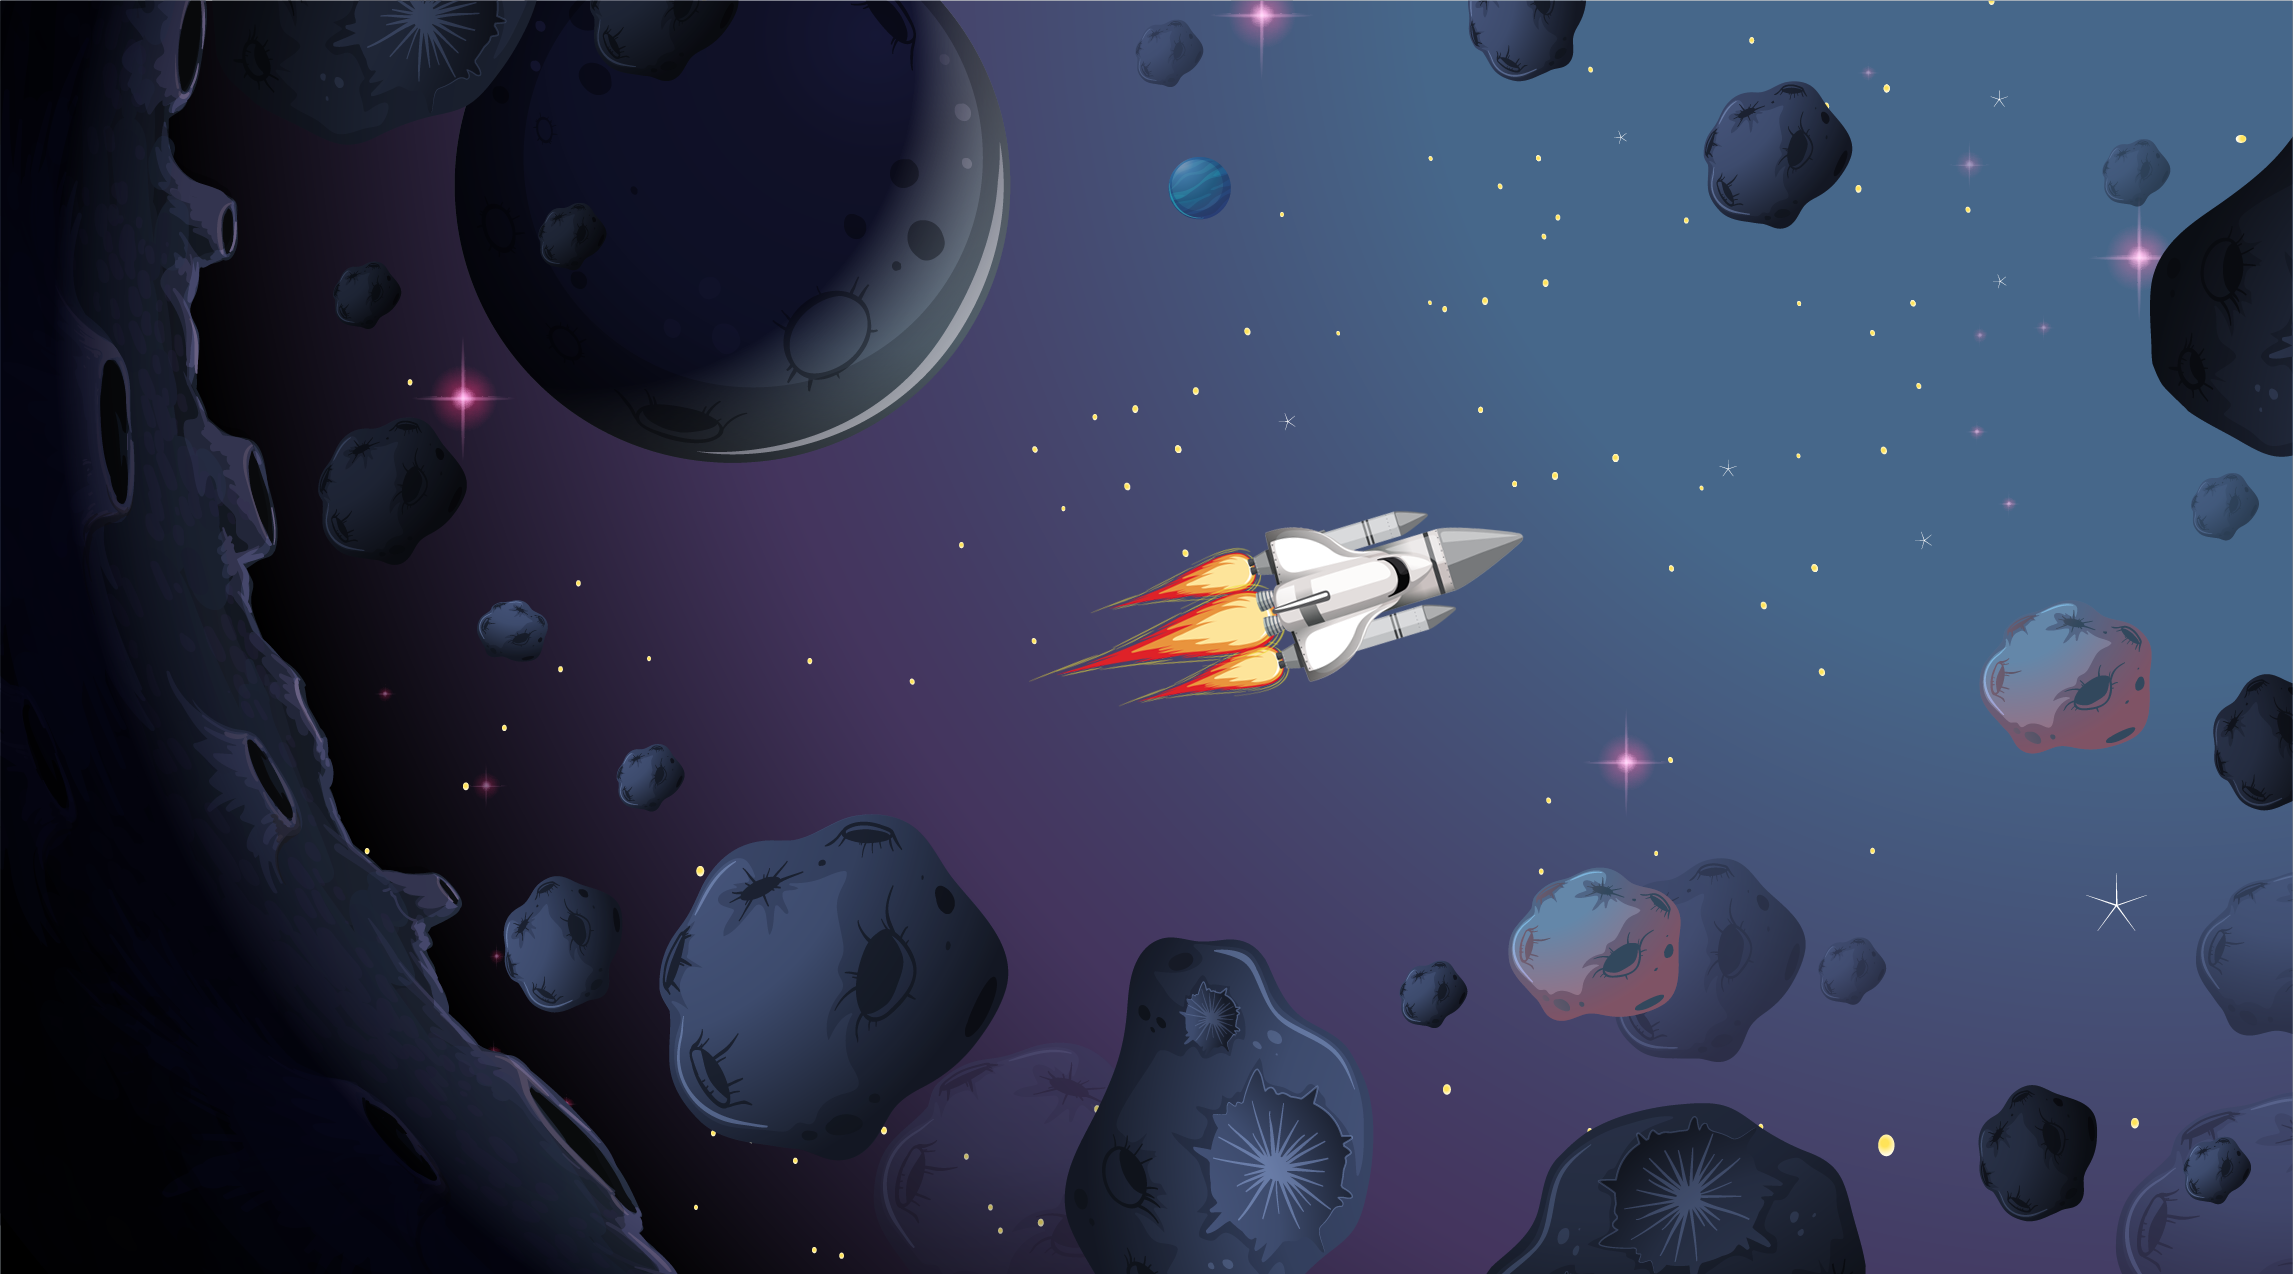
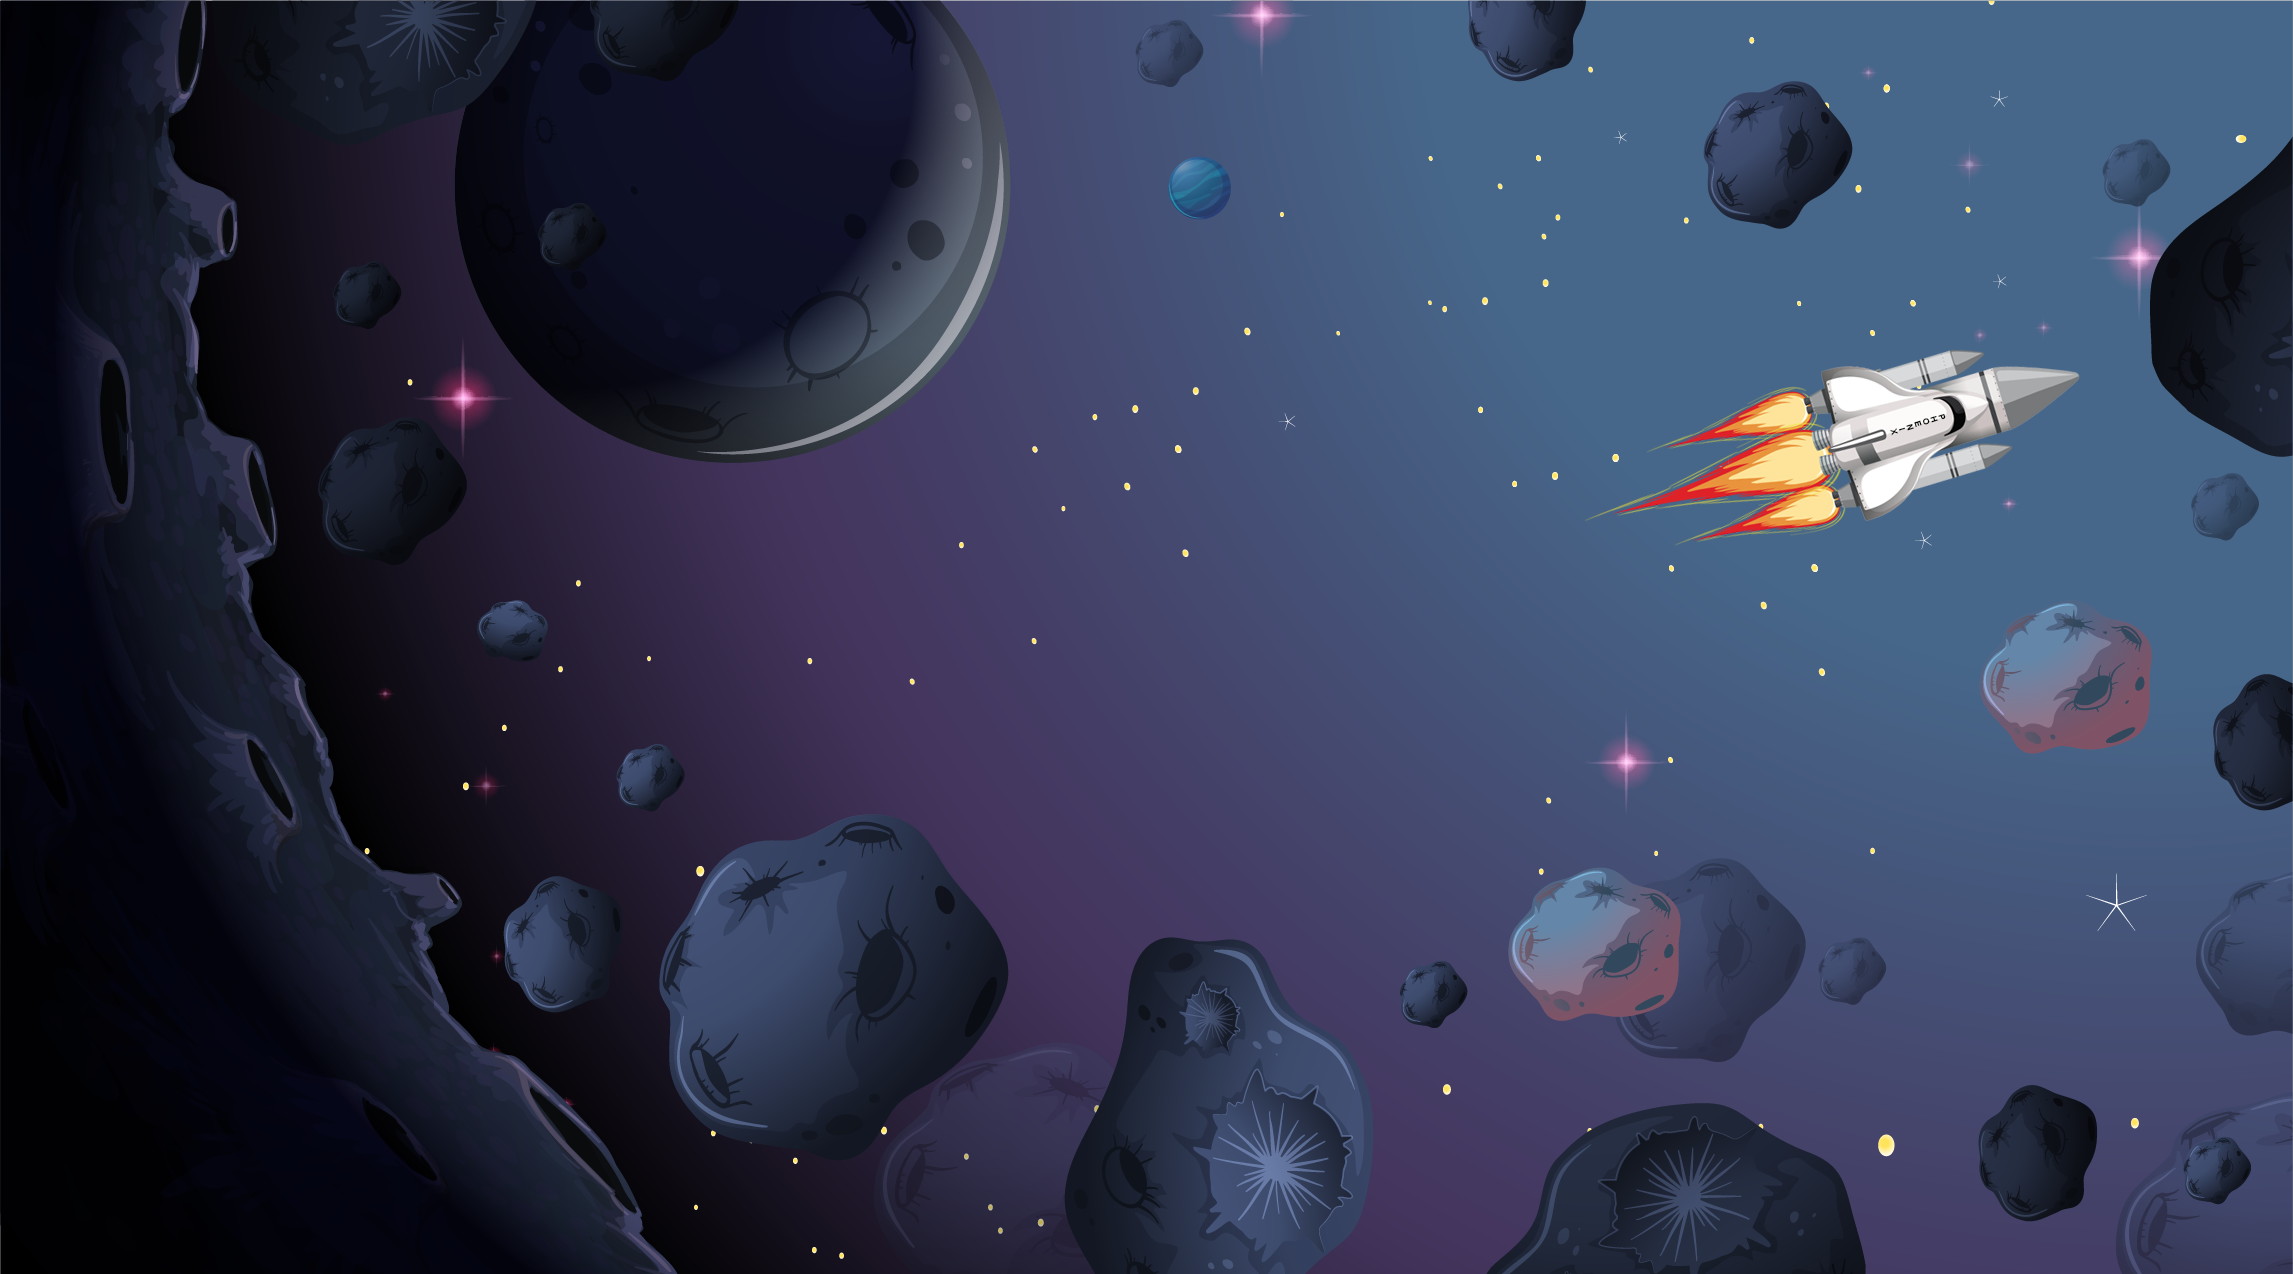
Adding phoenix name

Changed region(s): [[0.7122, 0.2755, 0.9289, 0.4286], [0.4645, 0.398, 0.6812, 0.551]]

diff --git a/index.html b/index.html
@@ -208,7 +208,9 @@
 				<!-- Empty -->
 				<section data-transition="" data-background-image="img/alone.png"></section>
 				<!-- Empty -->
-				<section data-transition="" data-background-image="img/eli-broken.png"></section>
+				<section data-transition="" data-background-image="img/eli-broken.png">
+					<p>5 minutes later</p>
+				</section>
 				<!-- Intro -->
 				<section data-transition="" data-background-image="img/discussion-ship.png"></section>
 				<!-- Discussion -->
@@ -347,7 +349,7 @@
 				</section>
 				<!-- Discussion -->
 				<section data-transition="" data-background-image="img/discussion-ship-done.png">
-					<div class="message right"><span>How about<br />PHOENIX</span></div>
+					<div class="message right"><span>How about...</span></div>
 				</section>
 				<!-- Audio -->
 				<section data-transition="" data-background-image="img/discussion-ship-done.png">
@@ -356,9 +358,12 @@
 					</audio>
 				</section>
 				<!-- Empty -->
+				<section data-transition="" data-background-image="img/discussion-ship-phoenix.png"></section>
+				<!-- Empty -->
 				<section data-transition="" data-background-image="img/phoenix.png"></section>
 				<!-- Audio -->
-				<section data-transition="" data-background-image="img/phoenix.png">
+				<section data-transition="zoom" data-background-image="img/phoenix.png">
+					<p>THE END</p>
 					<audio autoplay>
 					    <source data-src="audio/intro.mp3" type="audio/mp3" />
 					</audio>
